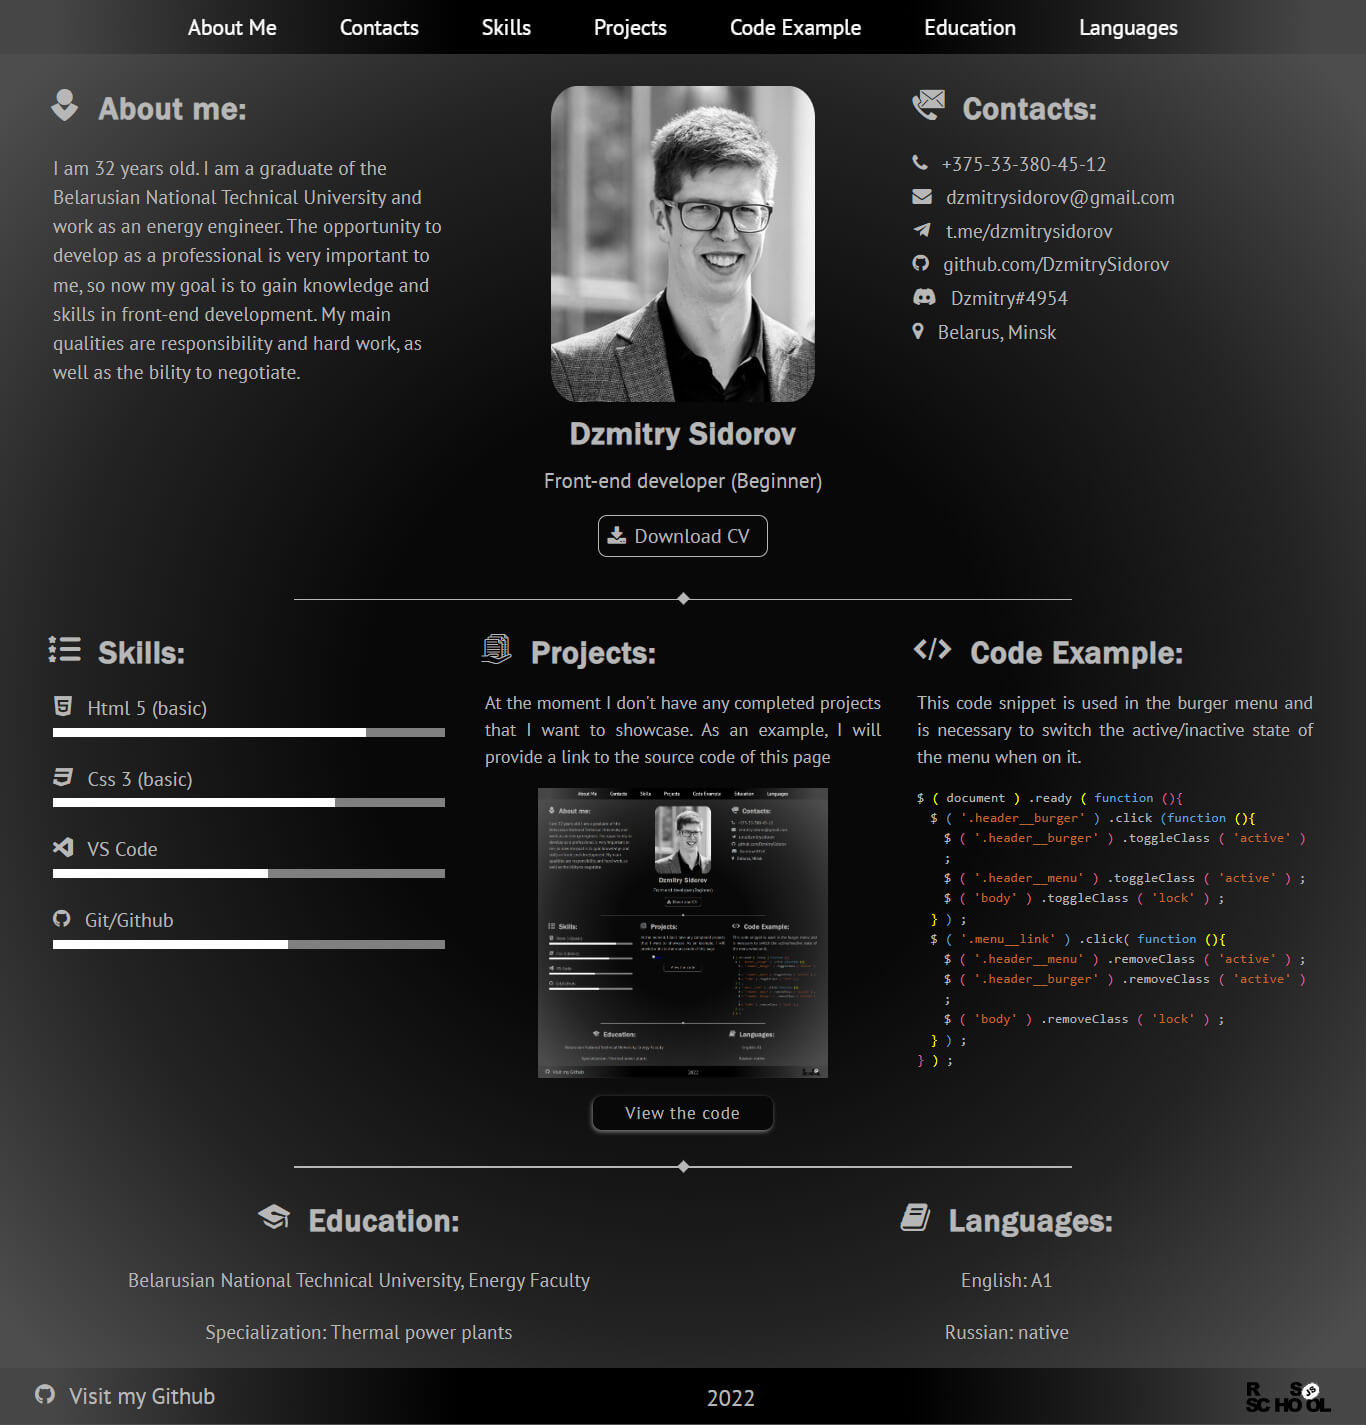
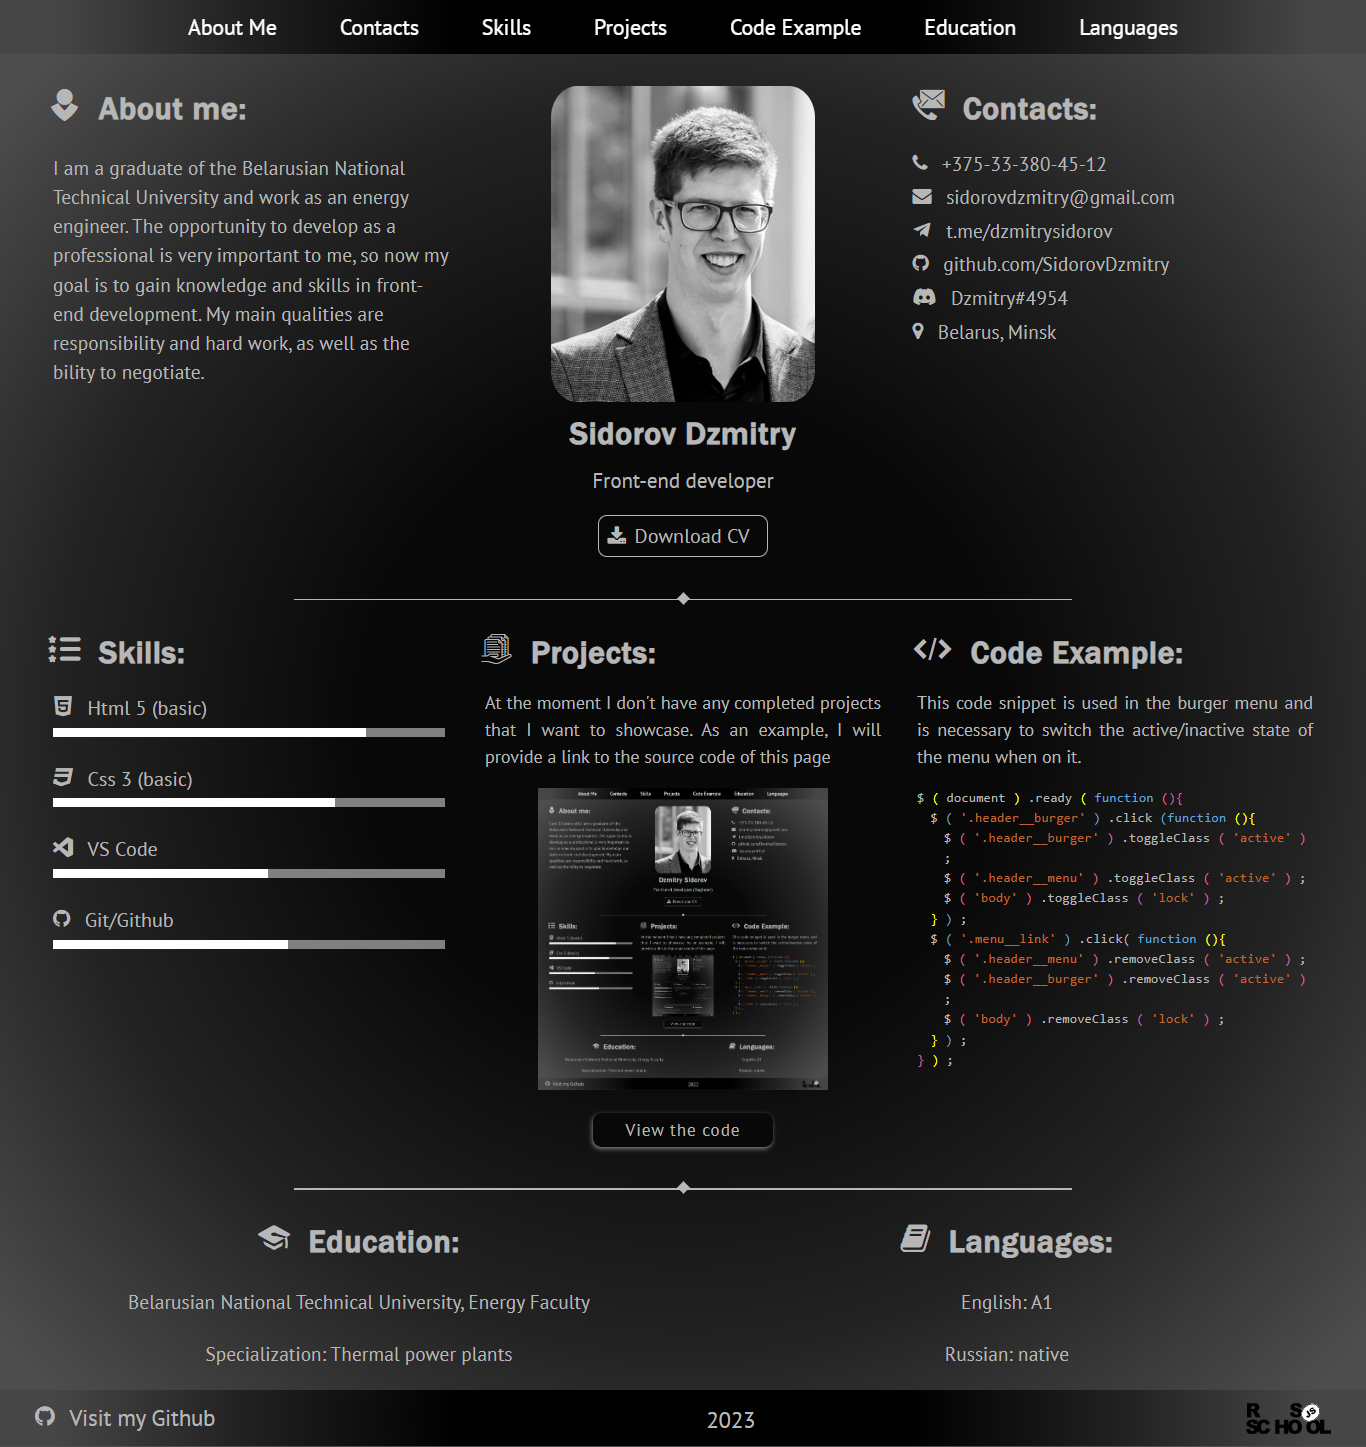
refactor: update index.html

diff --git a/index.html b/index.html
@@ -164,7 +164,7 @@
             showcase. As an example, I will provide a link to the source
             code of this page
           </p>
-          <a class="projects__link link" href="https://github.com/DzmitrySidorov/rsschool-cv/tree/gh-pages/"
+          <a class="projects__link link" href="https://github.com/SidorovDzmitry/rsschool-cv/tree/gh-pages/"
             target="_blank">
             <img class="projects__img img" src="assets/img/screenCV.jpg" alt="My CV">
           </a>

diff --git a/README.md b/README.md
@@ -1,2 +1,3 @@
 https://SidorovDzmitry.github.io/rsschool-cv/cv
+
 https://SidorovDzmitry.github.io/rsschool-cv/
